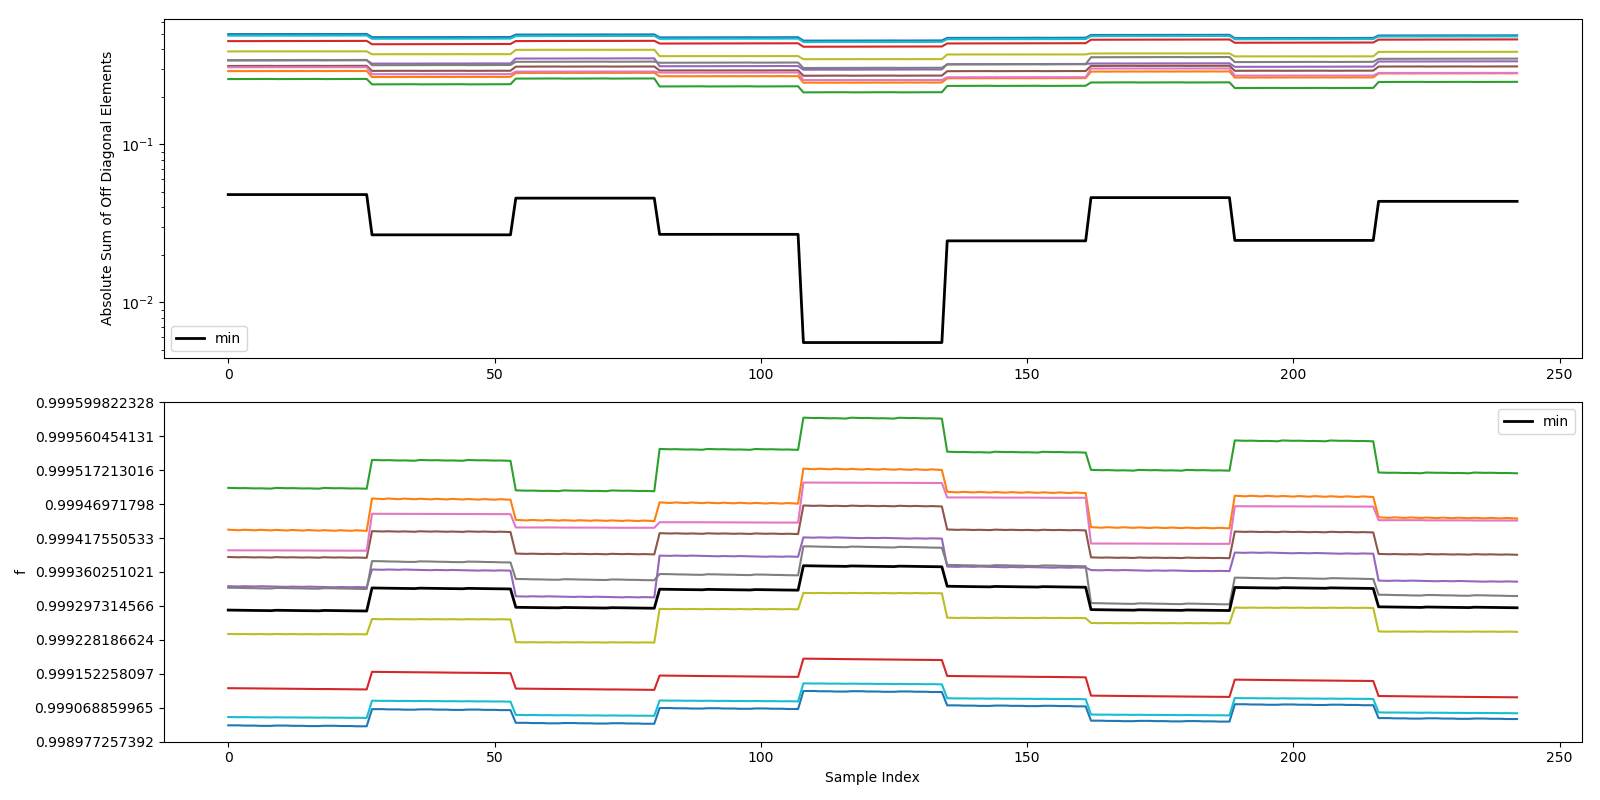
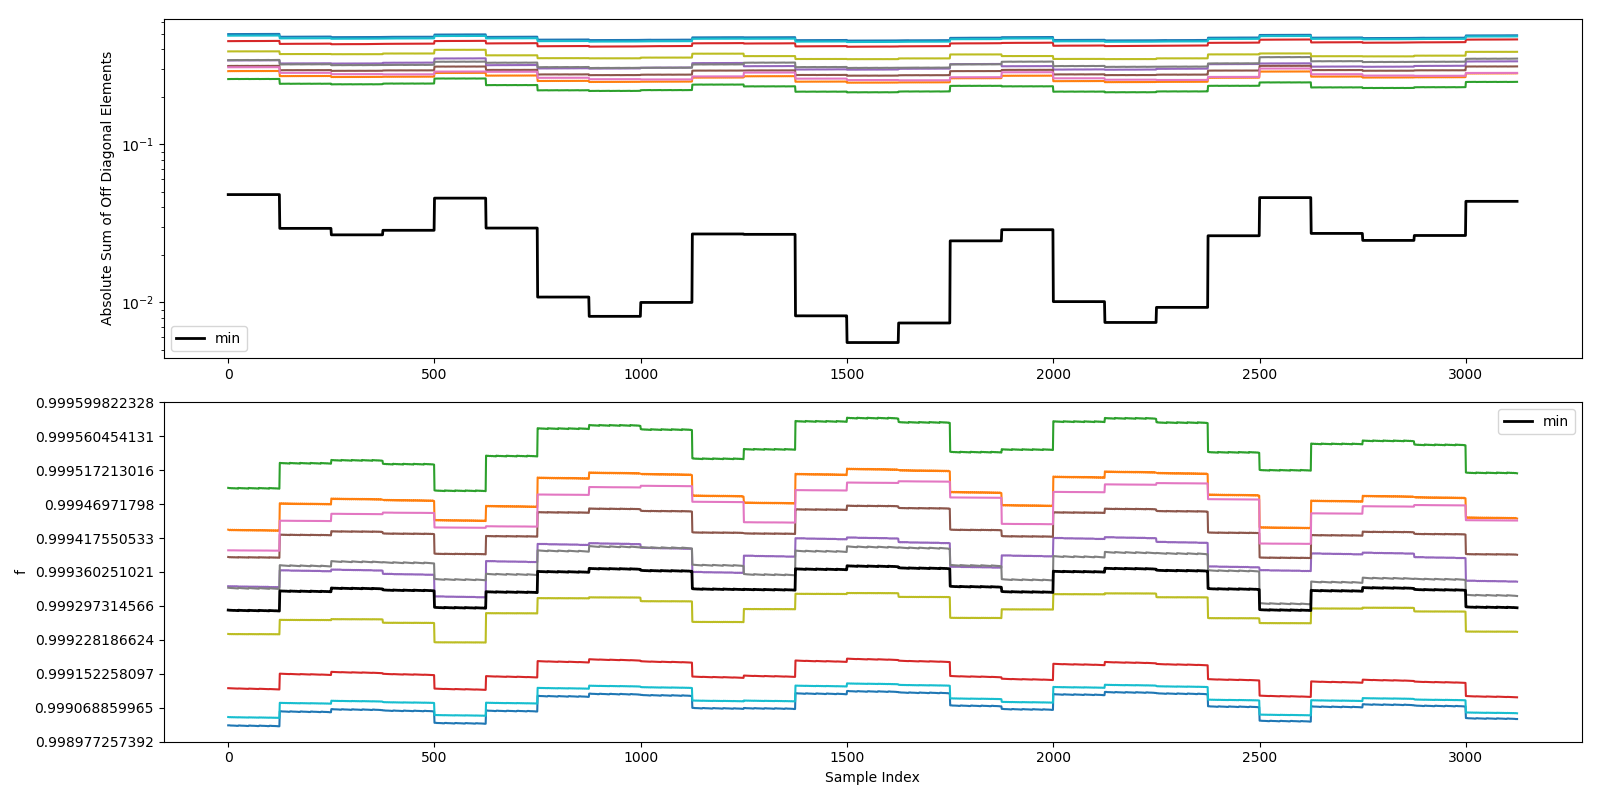
NEW PLOT

diff --git a/pauli_channel_approximation.py b/pauli_channel_approximation.py
@@ -185,7 +185,7 @@ class PCA(object):
         print(new_probs)
         return res.fun
 
-    def plot_everything(self, num_processors=36, num_points=2):
+    def plot_everything(self, num_processors=36, num_points=3):
         """Plots the depolarizing noise and gate fidelity over all detunings, varying over the list
          provided by itertools."""
 
